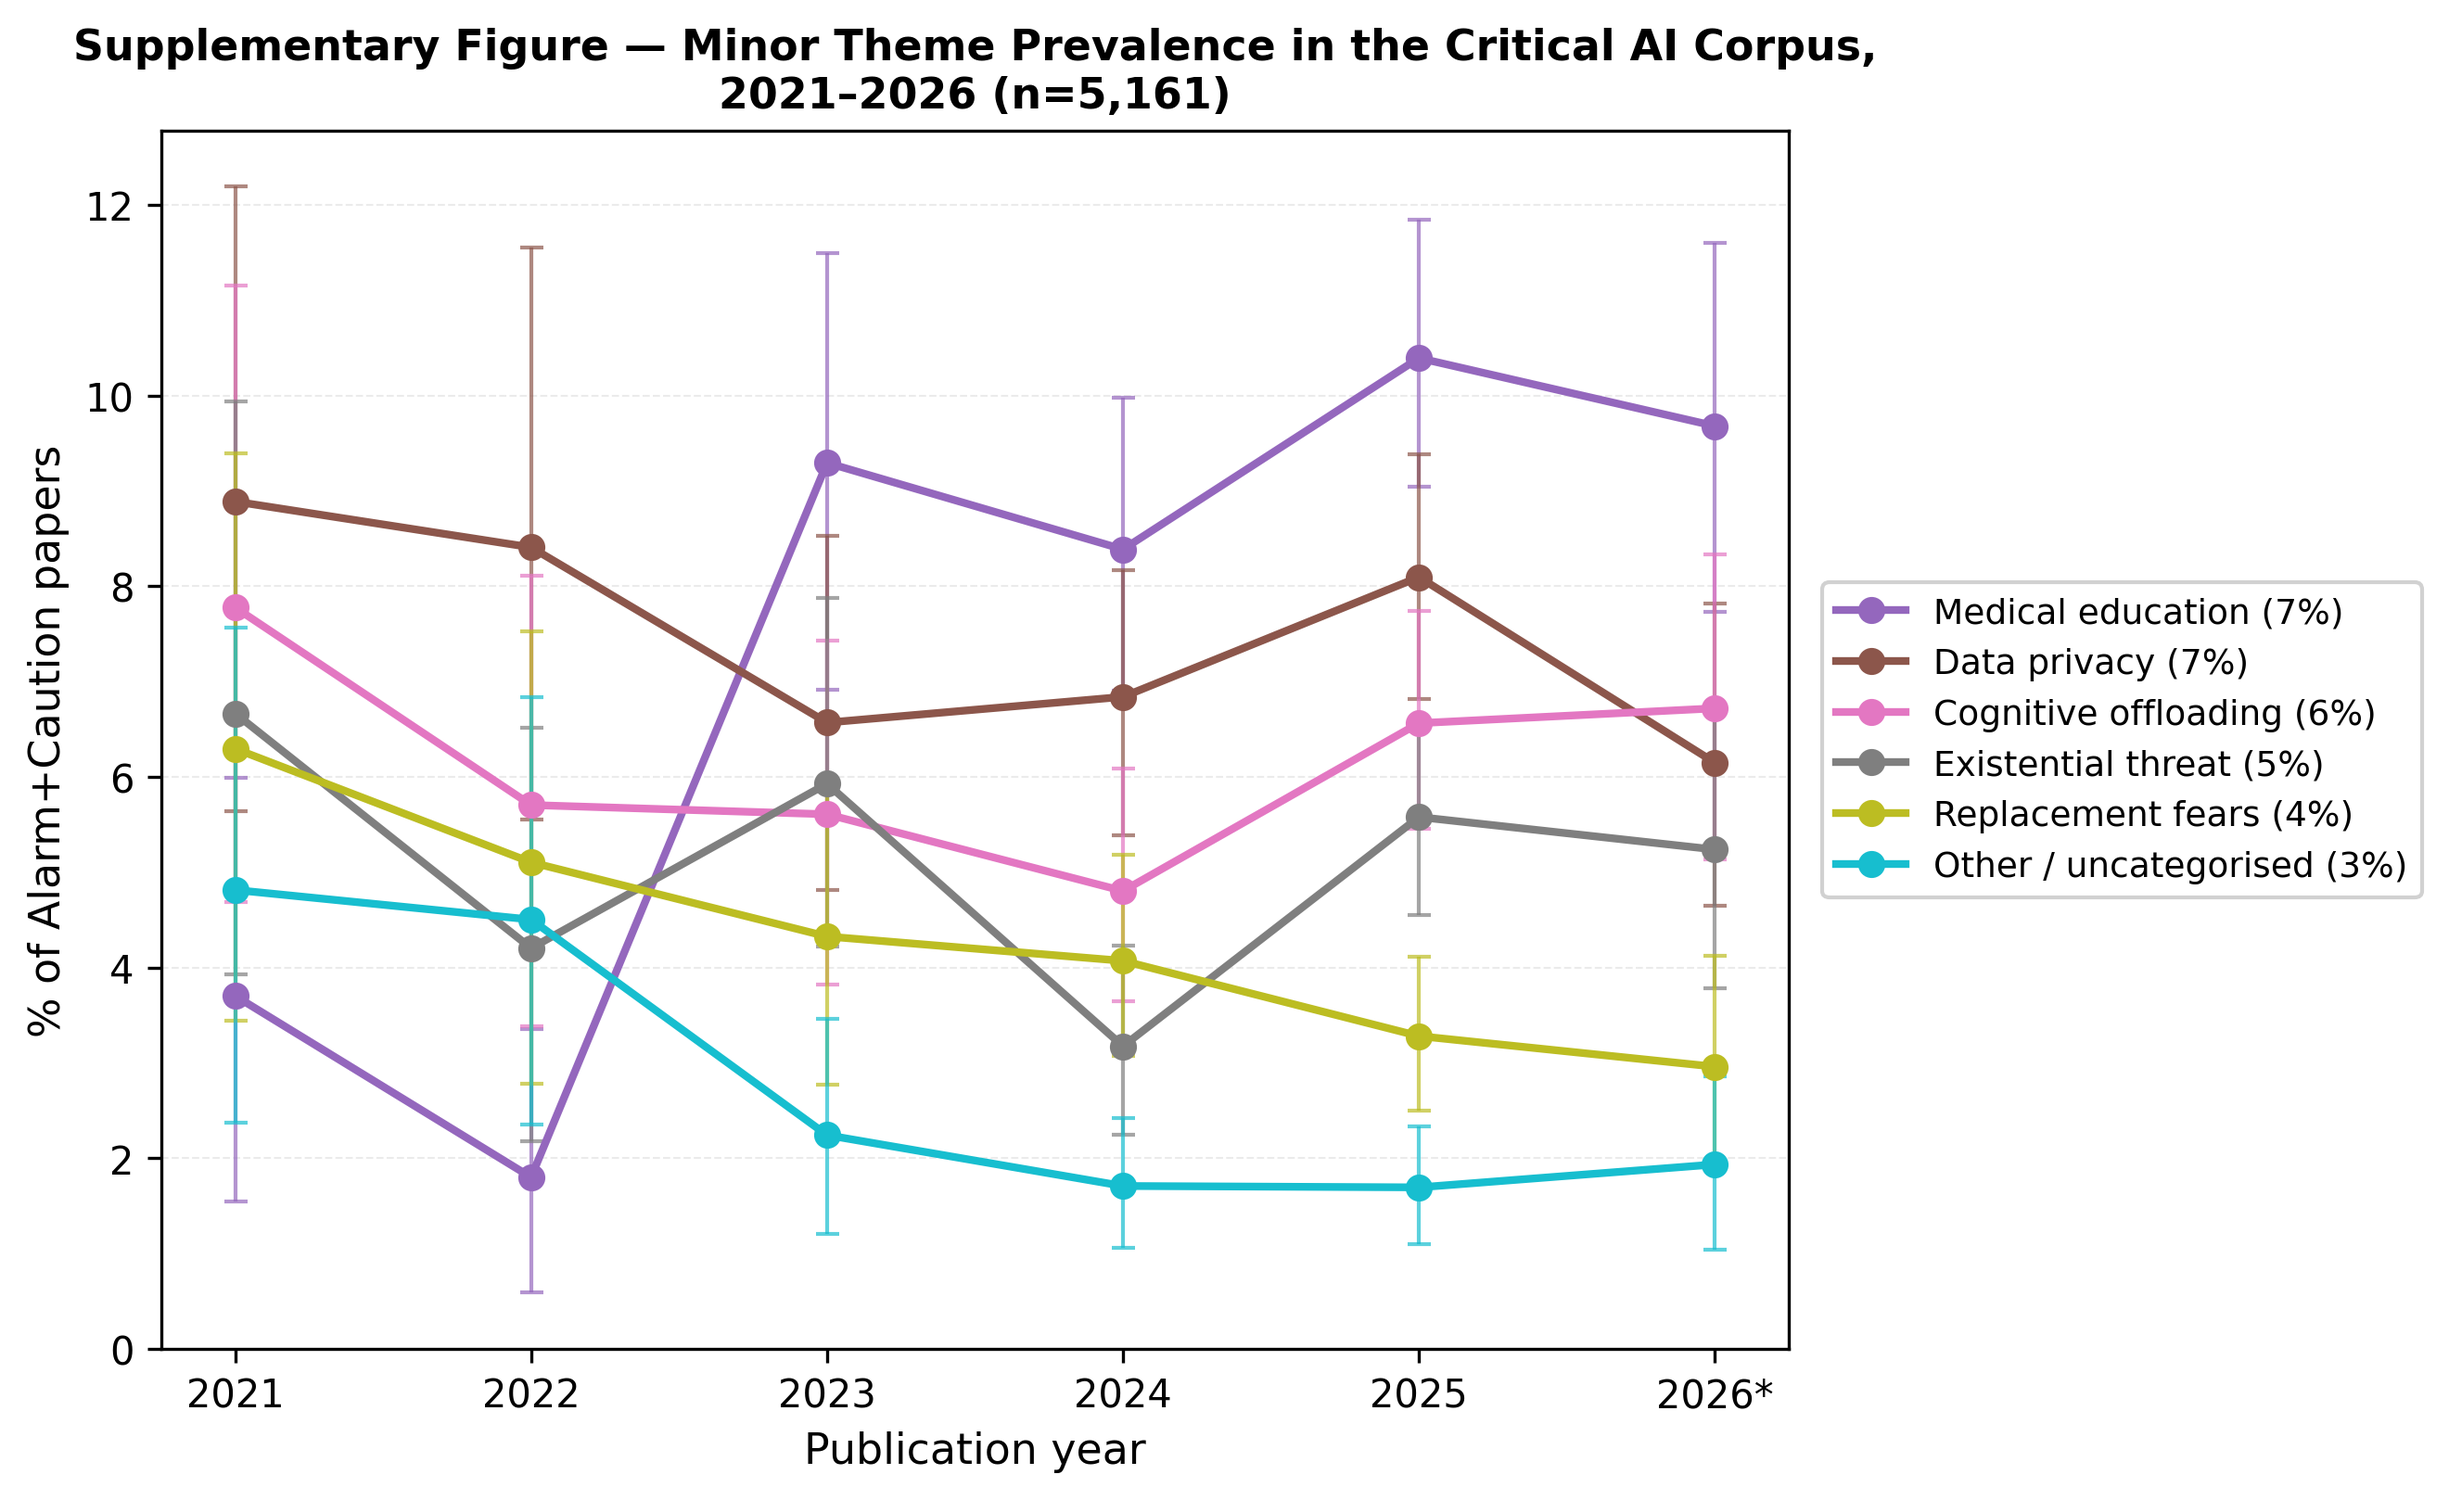
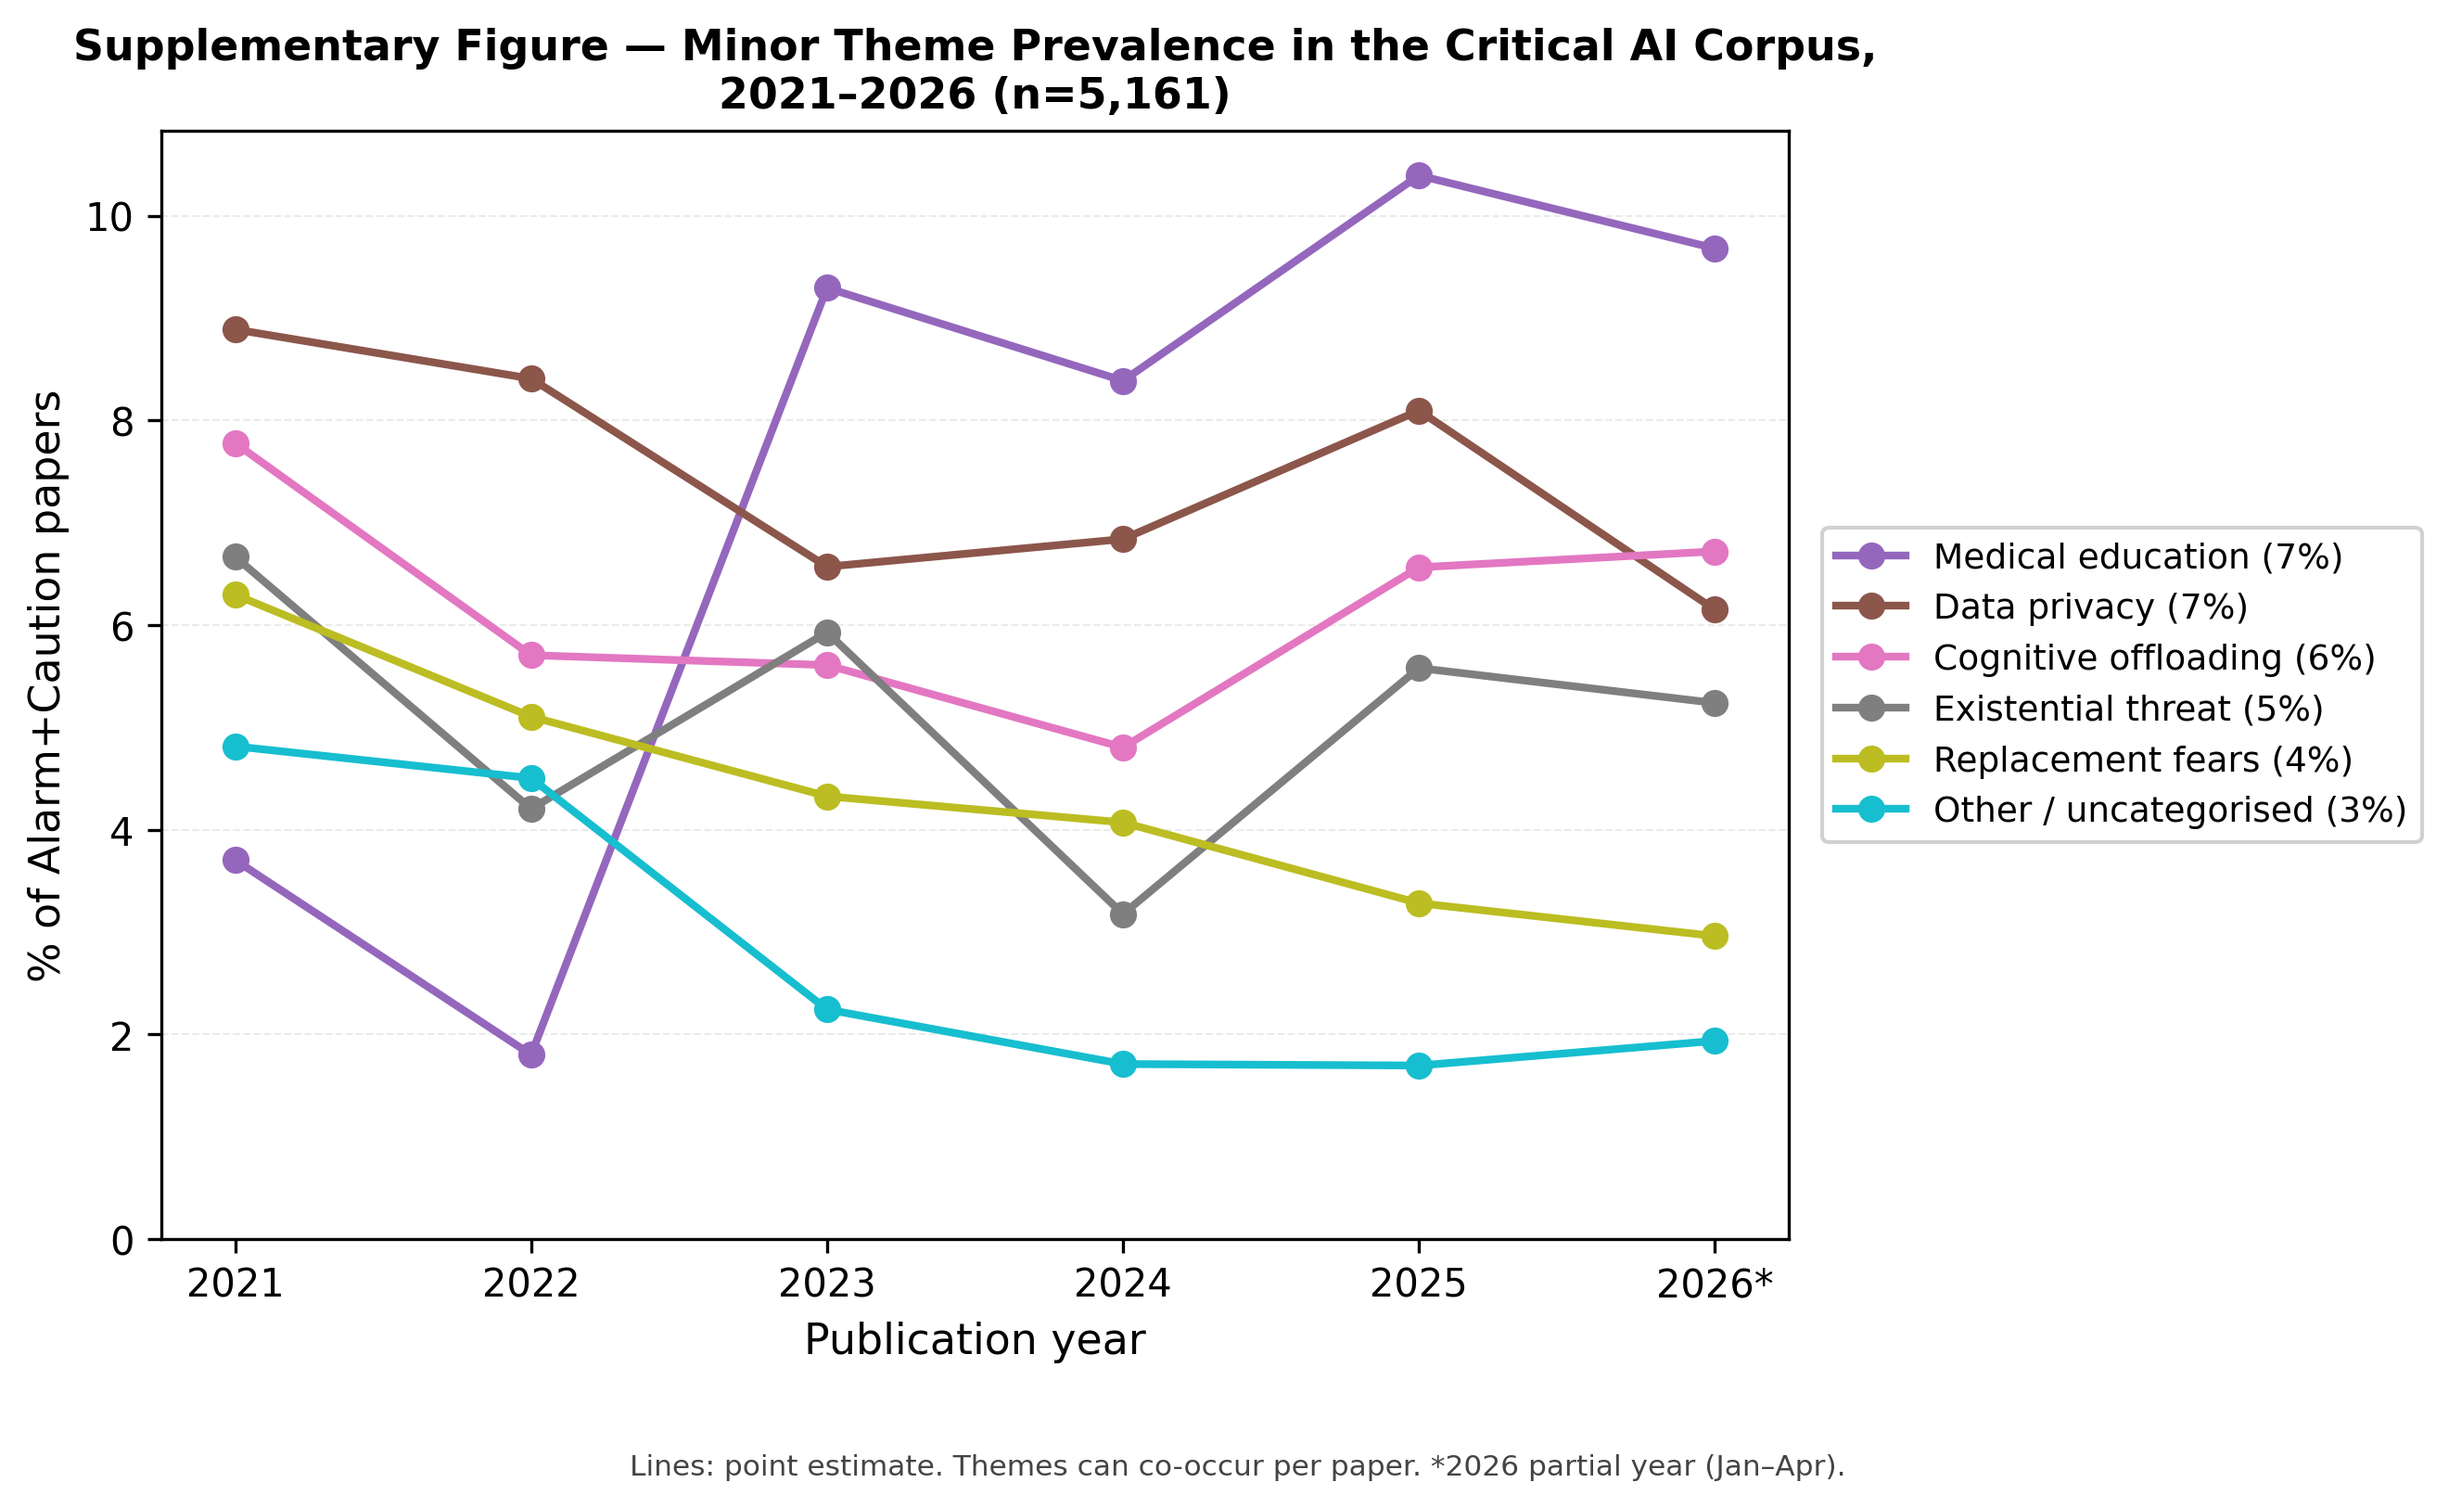
Move figure notes below plot; remove CI from supplementary
- Both figures: caption note (point estimate, CI, partial year) placed
  outside the plot area at bottom centre, 7.5pt grey text
- Supplementary: remove error bars entirely, lines-only for readability

diff --git a/analysis/plot_theme_prevalence_v2.py b/analysis/plot_theme_prevalence_v2.py
@@ -124,7 +124,7 @@ def plot_main(df: pd.DataFrame) -> None:
     )
     ax.grid(axis="y", alpha=0.25, ls="--", lw=0.5)
 
-    leg = ax.legend(
+    ax.legend(
         handles=line_handles + [other_patch],
         loc="center left",
         bbox_to_anchor=(1.01, 0.5),
@@ -134,7 +134,14 @@ def plot_main(df: pd.DataFrame) -> None:
     )
 
     fig.tight_layout()
-    fig.subplots_adjust(right=0.72)
+    fig.subplots_adjust(right=0.72, bottom=0.18)
+    fig.text(
+        0.5, 0.04,
+        "Lines: point estimate; shaded bands: bootstrap 95% CI (n=1,000). "
+        "Themes can co-occur per paper. *2026 partial year (Jan–Apr).",
+        ha="center", va="top", fontsize=7.5, color="#444444",
+        wrap=True,
+    )
 
     out = FIGURES_DIR / "theme_prevalence.png"
     fig.savefig(out, dpi=300, bbox_inches="tight", facecolor="white")
@@ -154,12 +161,8 @@ def plot_supplementary(df: pd.DataFrame) -> None:
 
     for t in MINOR_THEMES:
         c = MINOR_COLOURS[t]
-        yerr_lo = pt[t].values - lo[t].values
-        yerr_hi = hi[t].values - pt[t].values
         ax.plot(YEARS, pt[t], marker="o", lw=2, color=c,
-                label=f"{MINOR_LABELS[t]} ({overall[t]:.0f}%)", zorder=3)
-        ax.errorbar(YEARS, pt[t], yerr=[yerr_lo, yerr_hi],
-                    fmt="none", color=c, capsize=3, lw=1, alpha=0.7, zorder=2)
+                label=f"{MINOR_LABELS[t]} ({overall[t]:.0f}%)")
 
     ax.set_xticks(YEARS)
     ax.set_xticklabels([str(y) if y != 2026 else "2026*" for y in YEARS], fontsize=10)
@@ -181,7 +184,12 @@ def plot_supplementary(df: pd.DataFrame) -> None:
     ax.grid(axis="y", alpha=0.25, ls="--", lw=0.5)
 
     fig.tight_layout()
-    fig.subplots_adjust(right=0.72)
+    fig.subplots_adjust(right=0.72, bottom=0.18)
+    fig.text(
+        0.5, 0.04,
+        "Lines: point estimate. Themes can co-occur per paper. *2026 partial year (Jan–Apr).",
+        ha="center", va="top", fontsize=7.5, color="#444444",
+    )
 
     out = FIGURES_DIR / "theme_prevalence_sup.png"
     fig.savefig(out, dpi=300, bbox_inches="tight", facecolor="white")
